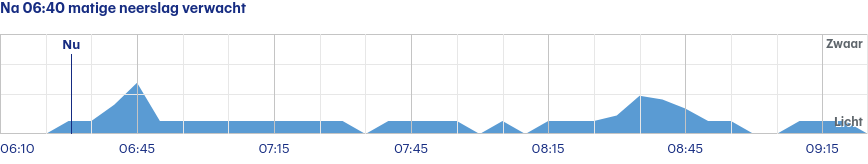
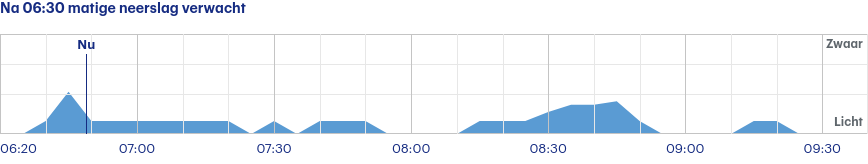
Latest scraping buienradar: Thu Aug  3 04:40:25 UTC 2023

diff --git a/scrapes/buienradar/buienradar-jette-3-uur.md b/scrapes/buienradar/buienradar-jette-3-uur.md
@@ -1,4 +1,4 @@
-Na 06:40 matige neerslag verwacht
+Na 06:30 matige neerslag verwacht
 
 ![](buienradar-jette-3-uur.png)
 
